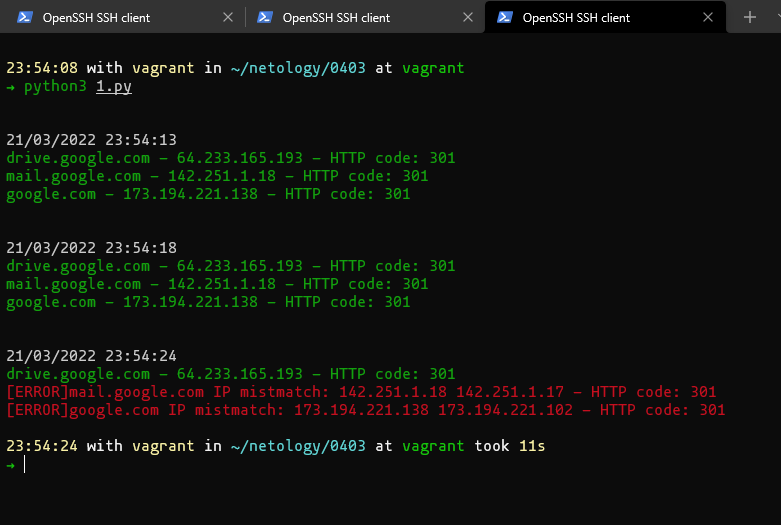
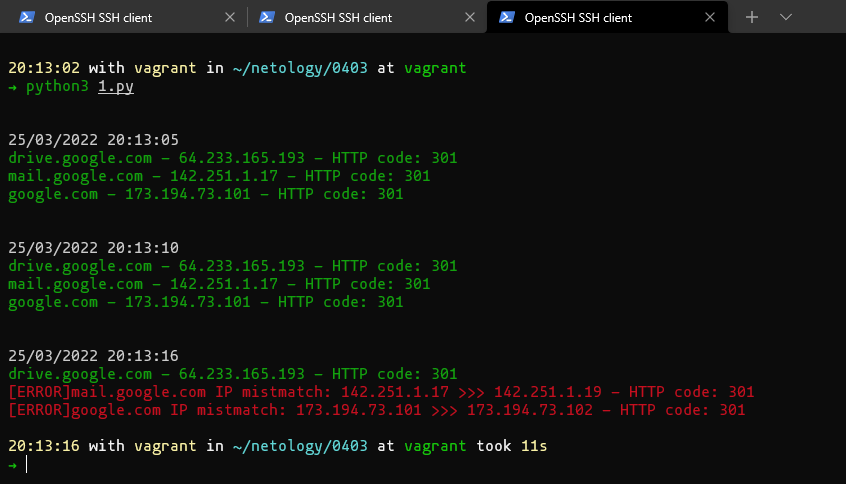
[04-script-03-yaml] ДЗ + скрипты + корректировки

diff --git a/04-script-02-py/README.md b/04-script-02-py/README.md
@@ -240,61 +240,65 @@ from subprocess import PIPE, Popen
 import socket
 import time
 from datetime import datetime
-port = "80"
-timeout = "10"
 
-hosts = ['drive.google.com','mail.google.com','google.com']
-hosts_ip =['','','']
-first = True
+port = "80" #порт который слушаем
+timeout = "10" #таймаут подключения
+
+hosts = {'drive.google.com':'','mail.google.com':'','google.com':''} #словарь "доменное имя" - "ip"
+
+#функция заполнения словаря
+def update_hosts(hosts_l):
+    for host in hosts_l:
+        ip = socket.gethostbyname(host)
+        hosts_l[host] = ip
+    return hosts_l
+
+now_hosts = update_hosts(hosts)
+
 error = False
+
 while True:
     now = datetime.now()
     print('\n')
     print('\033[37m' + now.strftime("%d/%m/%Y %H:%M:%S"))
-    for index, host in enumerate(hosts):
+    for index, host in enumerate(now_hosts):
+        #подключаемся curl по ip и получаем ответ сервера
         req = Popen('curl --write-out \'%{http_code}\' --silent --output /dev/null --connect-timeout ' + timeout + ' http://' + host + ':' + port, shell=True, stdout=PIPE, stderr=PIPE)
         stdout, stderr = req.communicate()
         code = stdout.decode()
-        now_ip = socket.gethostbyname(host)
-        if not first:
-            if now_ip.find(hosts_ip[index]) != -1:
-                print('\033[32m' + host + ' - ' + now_ip + ' - HTTP code: ' + code)
-            else:
-                print('\033[31m[ERROR]' + host + ' IP mistmatch: ' + hosts_ip[index] + ' ' + now_ip + ' - HTTP code: ' + code)
-                error = True
-        else:
+
+        now_ip = socket.gethostbyname(host) #получаем текущий ip сервера
+        if now_ip.find(now_hosts[host]) != -1:
             print('\033[32m' + host + ' - ' + now_ip + ' - HTTP code: ' + code)
-        hosts_ip[index] = now_ip
-    if error:
+        else:
+            print('\033[31m[ERROR]' + host + ' IP mistmatch: ' + now_hosts[host] + ' >>> ' + now_ip + ' - HTTP code: ' + code)
+            error = True
+
+        now_hosts[host] = now_ip
+    if error: #если ip сменился, прерываем выполнение скрипта, то только после опроса всех 3х серверов
         sys.exit(0)
-    first = False
     time.sleep(5)
 ```
 
 ### Вывод скрипта при запуске при тестировании:
 ```bash
-23:41:04 with vagrant in ~/netology/0402 at vagrant
+
+20:11:11 with vagrant in ~/netology/0402 at vagrant
 ➜ python3 4.py
 
 
-21/03/2022 23:41:07
+25/03/2022 20:11:13
 drive.google.com - 64.233.165.193 - HTTP code: 301
-mail.google.com - 142.251.1.19 - HTTP code: 301
-google.com - 173.194.221.100 - HTTP code: 301
+mail.google.com - 64.233.164.83 - HTTP code: 301
+google.com - 173.194.73.100 - HTTP code: 301
 
 
-21/03/2022 23:41:12
+25/03/2022 20:11:18
 drive.google.com - 64.233.165.193 - HTTP code: 301
-mail.google.com - 142.251.1.19 - HTTP code: 301
-google.com - 173.194.221.100 - HTTP code: 301
+mail.google.com - 64.233.164.83 - HTTP code: 301
+[ERROR]google.com IP mistmatch: 173.194.73.100 >>> 173.194.73.102 - HTTP code: 301
 
-
-21/03/2022 23:41:17
-drive.google.com - 64.233.165.193 - HTTP code: 301
-[ERROR]mail.google.com IP mistmatch: 142.251.1.19 142.251.1.17 - HTTP code: 301
-[ERROR]google.com IP mistmatch: 173.194.221.100 173.194.221.113 - HTTP code: 301
-
-23:41:17 with vagrant in ~/netology/0402 at vagrant took 10s
+20:11:19 with vagrant in ~/netology/0402 at vagrant took 6s
 ➜
 ```
 

diff --git a/04-script-03-yaml/README.md b/04-script-03-yaml/README.md
@@ -44,17 +44,19 @@ from datetime import datetime
 import json
 import yaml
 
-port = "80"
-timeout = "10"
+port = "80" #порт который слушаем
+timeout = "10" #таймаут подключения
 
-hosts = {'drive.google.com':'','mail.google.com':'','google.com':''}
+hosts = {'drive.google.com':'','mail.google.com':'','google.com':''} #словарь "доменное имя" - "ip"
 
+#функция заполнения словаря
 def update_hosts(hosts_l):
     for host in hosts_l:
         ip = socket.gethostbyname(host)
         hosts_l[host] = ip
     return hosts_l
 
+#функция обновления yaml и json
 def update_files(hosts_l):
     with open('hosts.json', 'w') as hosts_json:
         hosts_json.write(str(json.dumps(hosts_l)))
@@ -71,18 +73,19 @@ while True:
     print('\n')
     print('\033[37m' + now.strftime("%d/%m/%Y %H:%M:%S"))
     for index, host in enumerate(now_hosts):
+        #подключаемся curl по ip и получаем ответ сервера
         req = Popen('curl --write-out \'%{http_code}\' --silent --output /dev/null --connect-timeout ' + timeout + ' http://' + host + ':' + port, shell=True, stdout=PIPE, stderr=PIPE)
         stdout, stderr = req.communicate()
         code = stdout.decode()
-        now_ip = socket.gethostbyname(host)
+        now_ip = socket.gethostbyname(host) #получаем текущий ip сервера
         if now_ip.find(now_hosts[host]) != -1:
             print('\033[32m' + host + ' - ' + now_ip + ' - HTTP code: ' + code)
         else:
-            print('\033[31m[ERROR]' + host + ' IP mistmatch: ' + now_hosts[host] + ' ' + now_ip + ' - HTTP code: ' + code)
+            print('\033[31m[ERROR]' + host + ' IP mistmatch: ' + now_hosts[host] + ' >>> ' + now_ip + ' - HTTP code: ' + code)
             error = True
 
         now_hosts[host] = now_ip
-    if error:
+    if error: #если ip сменился, записываем текущие ip в yaml и json, прерываем выполнение скрипта, но только после опроса всех 3х серверов
         update_files(now_hosts)
         sys.exit(0)
     time.sleep(5)
@@ -90,29 +93,28 @@ while True:
 
 ### Вывод скрипта при запуске при тестировании:
 ```
-
-23:54:08 with vagrant in ~/netology/0403 at vagrant
+20:13:02 with vagrant in ~/netology/0403 at vagrant
 ➜ python3 1.py
 
 
-21/03/2022 23:54:13
+25/03/2022 20:13:05
 drive.google.com - 64.233.165.193 - HTTP code: 301
-mail.google.com - 142.251.1.18 - HTTP code: 301
-google.com - 173.194.221.138 - HTTP code: 301
+mail.google.com - 142.251.1.17 - HTTP code: 301
+google.com - 173.194.73.101 - HTTP code: 301
 
 
-21/03/2022 23:54:18
+25/03/2022 20:13:10
 drive.google.com - 64.233.165.193 - HTTP code: 301
-mail.google.com - 142.251.1.18 - HTTP code: 301
-google.com - 173.194.221.138 - HTTP code: 301
+mail.google.com - 142.251.1.17 - HTTP code: 301
+google.com - 173.194.73.101 - HTTP code: 301
 
 
-21/03/2022 23:54:24
+25/03/2022 20:13:16
 drive.google.com - 64.233.165.193 - HTTP code: 301
-[ERROR]mail.google.com IP mistmatch: 142.251.1.18 142.251.1.17 - HTTP code: 301
-[ERROR]google.com IP mistmatch: 173.194.221.138 173.194.221.102 - HTTP code: 301
+[ERROR]mail.google.com IP mistmatch: 142.251.1.17 >>> 142.251.1.19 - HTTP code: 301
+[ERROR]google.com IP mistmatch: 173.194.73.101 >>> 173.194.73.102 - HTTP code: 301
 
-23:54:24 with vagrant in ~/netology/0403 at vagrant took 11s
+20:13:16 with vagrant in ~/netology/0403 at vagrant took 11s
 ➜
 ```
 
